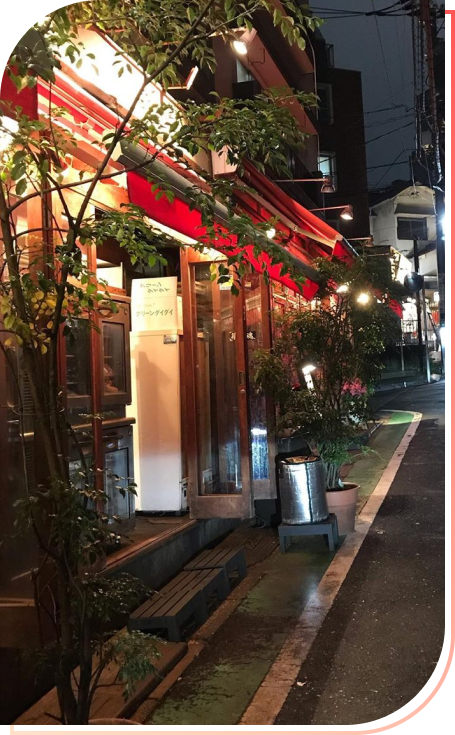
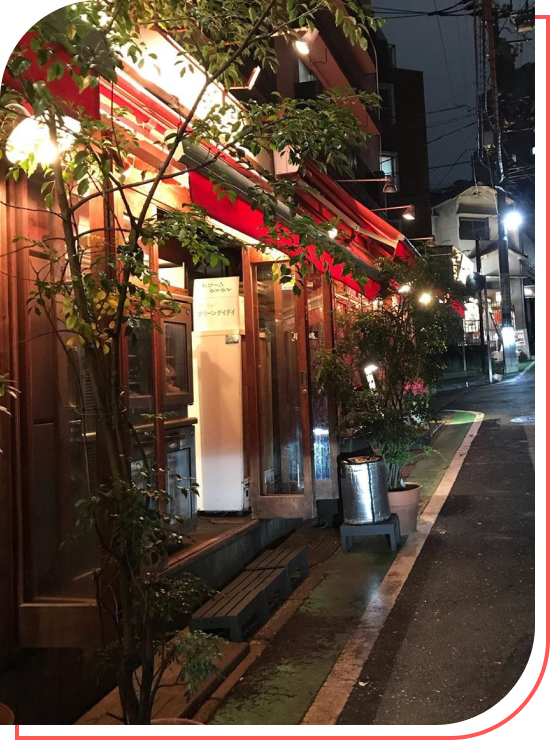
setup redux

diff --git a/src/pages/LandingPage/index.js b/src/pages/LandingPage/index.js
@@ -282,30 +282,13 @@ export default class index extends Component {
                   </div>
                 </div>
                 <div className="col-md-8 row d-none d-md-block">
-                  <div className="about-2 mx-auto middle">
-                    <Fade>
+                  <div className="hero-about mx-auto middle">
+                    <Fade bottom>
                       <img
                         style={{ maxHeight: "725px", height: "74vh" }}
                         src={data.about.image2}
-                        className="blur-image"
+                        className="about-big"
                         alt="About2"
-                      />
-                    </Fade>
-
-                    <Fade left>
-                      <img
-                        className="about-1 position-absolute"
-                        style={{ maxHeight: "221px", height: "12vw" }}
-                        src={data.about.image1}
-                        alt="About1"
-                      />
-                    </Fade>
-                    <Fade right>
-                      <img
-                        className="about-3 position-absolute"
-                        style={{ maxHeight: "285px", height: "15vw" }}
-                        src={data.about.image3}
-                        alt="About3"
                       />
                     </Fade>
                   </div>

diff --git a/src/index.js b/src/index.js
@@ -1,9 +1,18 @@
 import React from "react";
 import ReactDOM from "react-dom";
+import { ToastContainer } from "react-toastify";
 import App from "./App";
 import * as serviceWorker from "./serviceWorker";
+import { Provider } from "react-redux";
+import store from "./store";
 
-ReactDOM.render(<App />, document.getElementById("root"));
+ReactDOM.render(
+  <Provider store={store}>
+    <App />
+    <ToastContainer></ToastContainer>
+  </Provider>,
+  document.getElementById("root")
+);
 
 // If you want your app to work offline and load faster, you can change
 // unregister() to register() below. Note this comes with some pitfalls.

diff --git a/src/configs/axios/errorResponseHandler.js b/src/configs/axios/errorResponseHandler.js
@@ -1,0 +1,18 @@
+import { toast } from "react-toastify";
+import "react-toastify/dist/ReactToastify.css";
+
+function errorResponseHandler(err) {
+  if (err) {
+    let message;
+    if (err.response) {
+      if (err.response.status === 500) message = "Something went wrong";
+      else message = err.response.message;
+
+      console.log(message);
+      toast(message);
+      return Promise.reject(err);
+    }
+  }
+}
+
+export default errorResponseHandler;

diff --git a/src/store/index.js b/src/store/index.js
@@ -1,0 +1,18 @@
+import { createStore, applyMiddleware, compose } from "redux";
+import thunk from "redux-thunk";
+import rootReducer from "./reducers";
+
+const initialState = {};
+
+const middleware = [thunk];
+
+const store = createStore(
+  rootReducer,
+  initialState,
+  compose(
+    applyMiddleware(...middleware),
+    window.__REDUX_DEVTOOLS_EXTENSION__ && window.__REDUX_DEVTOOLS_EXTENSION__()
+  )
+);
+
+export default store;

diff --git a/src/assets/scss/styles.scss b/src/assets/scss/styles.scss
@@ -191,7 +191,7 @@ nav {
     .about-title {
       white-space: pre-wrap;
     }
-    .about-2 {
+    .hero-about {
       width: 445px;
     }
     .about-1 {
@@ -208,8 +208,8 @@ nav {
       margin-top: -10vh;
       margin-left: 30vh;
     }
-    .blur-image {
-      filter: blur(2px);
+    .about-big {
+      filter: blur(0px);
       &:hover {
         filter: blur(0px);
       }

diff --git a/src/store/actions/page.js b/src/store/actions/page.js
@@ -1,0 +1,13 @@
+import { FETCH_PAGE } from "../types";
+import axios from "../../configs/axios";
+
+export const fetchPage = (url, page) => (dispatch) => {
+  return axios.get(url).then((response) => {
+    dispatch({
+      type: FETCH_PAGE,
+      payload: {
+        [page]: response.data,
+      },
+    });
+  });
+};

diff --git a/src/configs/axios/index.js b/src/configs/axios/index.js
@@ -1,0 +1,13 @@
+import axios from "axios";
+import errorResponseHandler from "./errorResponseHandler";
+
+const instance = axios.create({
+  baseURL: `${process.env.SERVER_HOST}/api/v1/public`,
+});
+
+instance.interceptors.response.use(
+  (response) => response,
+  errorResponseHandler
+);
+
+export default instance;

diff --git a/src/store/reducers/page.js b/src/store/reducers/page.js
@@ -1,0 +1,15 @@
+import { FETCH_PAGE } from "../types";
+
+const initialState = {};
+
+export default function (state = initialState, action) {
+  switch (action.type) {
+    case FETCH_PAGE:
+      return {
+        ...state,
+        ...action.payload,
+      };
+    default:
+      return state;
+  }
+}

diff --git a/src/store/reducers/index.js b/src/store/reducers/index.js
@@ -1,0 +1,6 @@
+import { combineReducers } from "redux";
+import page from "./page";
+
+export default combineReducers({
+  page,
+});

diff --git a/src/store/types.js b/src/store/types.js
@@ -1,0 +1,3 @@
+export const ON_PAGE = "ON_PAGE";
+export const FETCH_PAGE = "FETCH_PAGE";
+export const IS_LOADING = "IS_LOADING";
